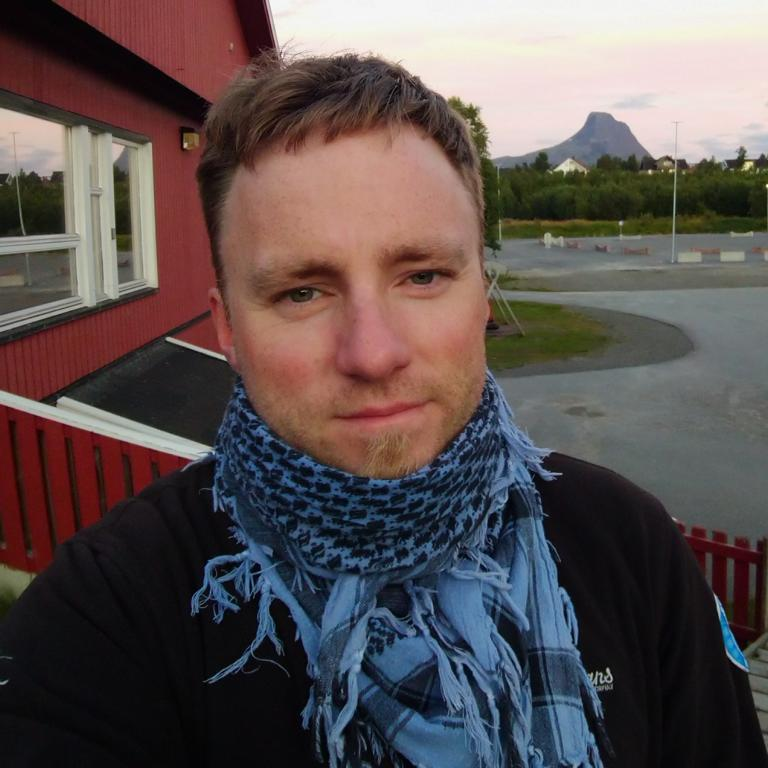
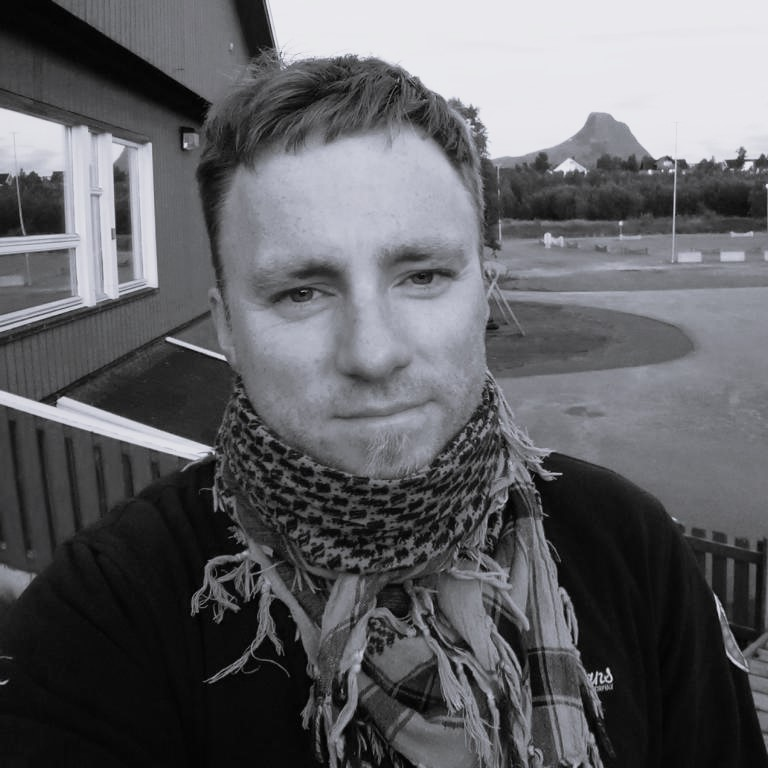
new card::before, shadow aboutimage

diff --git a/home.html b/home.html
@@ -44,8 +44,8 @@
         </nav>
     </header>
     <main>
-        <section  class="welcome hidden">
-            <div class="welcome-text">
+        <section  class="welcome">
+            <div class="welcome-text hidden left">
                 <h1>Hi, my name is </h1>
                 <h2>Michael.</h2>
                 <h2><span>Front-end <span class="striketrough">wizard</span> student</span></h2>
@@ -54,16 +54,16 @@
                     What I`ve done so far...
                 </a>
             </div>
-            <div class="imageContainer hero">
+            <div class="imageContainer hero hidden right">
                 <img src="/Images-Icons/hero logo.png" alt="picture of hands with neon sign">
 
             </div>
         </section>
-        <section id="portfolio" class="portfolio hidden">
-            <h2>My Projects</h2>
+        <section id="portfolio" class="portfolio">
+            <h2 class="hidden right">My Projects</h2>
             <div class="cardGrid ">
                
-                <div class="card hidden">
+                <div class="card hidden left">
                     <div class="imageContainer">
                         <img src="/Images-Icons/CSM-Community-Science-Museum-Home (1).JPG" alt="Image of Csm Website">
                     </div>
@@ -83,7 +83,7 @@
                     
                 </div>
                
-                <div class="card hidden">
+                <div class="card hidden left">
                     <div class="imageContainer">
                         <img src="/Images-Icons/JTB-Japan-Travel-Blog-Homepage (1).JPG" alt="Image of Jtb website">
                     </div>
@@ -103,7 +103,7 @@
                         </div>
                     </div>
                 </div>
-                <div class="card hidden">
+                <div class="card hidden left">
                     <div class="imageContainer">
                         <img src="/Images-Icons/Rainydays-Home (1).JPG" alt="Image of Rainydays website">
                     </div>
@@ -123,7 +123,7 @@
 
                     </div>
                 </div>
-                <div class="card hidden">
+                <div class="card hidden left">
                     <div class="imageContainer">
                         <img src="/Images-Icons/Star-Wars-Home (1).JPG" alt="Image of star wars website">
                     </div>
@@ -146,13 +146,13 @@
                 </div>
             </div>
         </section>
-        <section id="about" class="welcome about hidden">
-            <h2>About me</h2>
+        <section id="about" class="welcome about">
+            <h2 class="hidden right">About me</h2>
                 <div class="aboutwrapper">
-                    <div class="imageContainer hero">
+                    <div class="imageContainer hero hidden left">
                         <img src="/Images-Icons/headshot2.JPG" alt="picture of me">
                     </div>
-                    <div class="welcome-text">
+                    <div class="welcome-text hidden right">
                         <p class="text">I`m 39 year old, born in Germany but have lived in Norway since 2009. After 20 years as a professional chef I decided that it was time for something new and
                                         I came across front-end development as a possible career path. I quickly enrolled in a online course at <a class="noline" href="www.freecodecamp.org">freecodecamp</a> and had a lot of fun coding.
                                         In 2022 I enrolled at <a class="noline" href="www.noroff.no">Noroff - School of Technology and Design</a> to learn coding and front-end development properly.
@@ -165,18 +165,18 @@
 
     </main>
     <footer >
-        <section id="contact" class="hidden" >
-            <h2>Find me here...</h2>
-            <div class="links-contact">
+        <section id="contact">
+            <h2 class="hidden right">Find me here...</h2>
+            <div class="links-contact hidden left">
                 <a class="neon-text pink" href="https://www.facebook.com/micha.baeuml">Go to >>><img src="/Images-Icons/icon-facebook.png" alt="facebook icon"></a>
                 <a class="neon-text pink" href="https://www.instagram.com/baumlmicha/?hl=nb">Go to >>><img src="/Images-Icons/icon-instagram.png" alt="instagram icon"></a>
                 <a class="neon-text pink" href="https://www.linkedin.com/in/michael-b%C3%A4uml-045924221/">Go to >>><img src="/Images-Icons/icon-linkedin.png" alt="linkedin icon"></a>
             </div>
-            <h2>or just write me</h2>
-            <div class="links-contact">
+            <h2 class="hidden right">or just write me</h2>
+            <div class="links-contact hidden left">
                 <a class="neon-text pink" href="mailto:michabaeuml@hotmail.com">Write me...<img src="/Images-Icons/icon-mail.png" alt="mail icon"></a>
             </div>
-            <div class="copyright">
+            <div class="copyright hidden left">
                 <div>
                     <p class="text">&COPY 2023 Michael Bäuml.</p>
                     <p class="text"> All rights reserved.</p>

diff --git a/Css/style.css b/Css/style.css
@@ -217,39 +217,40 @@ nav {
     position: relative;
     box-sizing: border-box;
     transition: 1s all ease-in-out;
+    border-radius: 15px;  
 }
-.card::before {
+ .card::before {
     content: "";
     position: absolute;
     top: -10px; 
     right: -10px; 
-    left: 20px;
-    bottom: 20px;
-    border: 2px solid var(--crl--neonteal); 
-    z-index: -1; 
+    left: -10px;
+    bottom: -10px;
+    border: 2px solid var(--crl--neonpink); 
+    border-radius: 15px;   
 }
 .card:hover::before {
-    top: 0;
-    right: 0;
-    left: 0;
-    bottom: 0;
+    top: -1px;
+    right: -1px;
+    left: -1px;
+    bottom: -1px;
     animation: inFrame .5s ease-in-out;
-    box-shadow: 0 0 2.5em var(--crl--neonteal);
+    box-shadow: 0 0 2.5em var(--crl--neonpink);
 }
 @keyframes inFrame {
     0% {
         top: -10px; 
         right: -10px; 
-        left: 20px;
-        bottom: 20px;
+        left: -10px;
+        bottom: -10px;
     }
     100% {
-        top: 0;
-        right: 0;
-        left: 0;
-        bottom: 0;
+        top: -1px;
+        right: -1px;
+        left: -1px;
+        bottom: -1px;
     }
-}
+} 
 .imageContainer:not(.hero, .frontpage) {
     overflow: hidden;
     height: 250px;
@@ -273,7 +274,6 @@ nav {
     background-color: var(--crl--neonpink);
     filter: blur(100px);
     z-index: -1;
-    
 }
 .card img {
     max-width: 100%;
@@ -319,7 +319,7 @@ nav {
     width: 300px;
     height: 300px;
     border-radius: 50%;
-    filter: grayscale(100%);
+    box-shadow: 0 0 2.5em var(--crl--neongreen);
 }
 /* fotter section */
 footer {
@@ -391,9 +391,14 @@ footer {
 .hidden {
     opacity: 0;
     filter: blur(5px);
-    transform: translateX(-100%);
     transition: all 1s ease;
     transition-delay: 200ms;
+}
+.left {
+    transform: translateX(-100%);
+}
+.right {
+    transform: translateX(+100%);
 }
 .show {
     opacity: 1;

diff --git a/Js/home.js b/Js/home.js
@@ -99,6 +99,7 @@ window.addEventListener('scroll', function hideReflection() {
   randomFlicker();
 
 /* slidein effect */  
+document.addEventListener('DOMContentLoaded', function() {
 const observer = new IntersectionObserver((entries) =>{
   entries.forEach((entry) => {
     if (entry.isIntersecting) {
@@ -111,3 +112,4 @@ const observer = new IntersectionObserver((entries) =>{
 
 const hiddenElements = document.querySelectorAll('.hidden');
 hiddenElements.forEach((el) => observer.observe(el));  
+})
